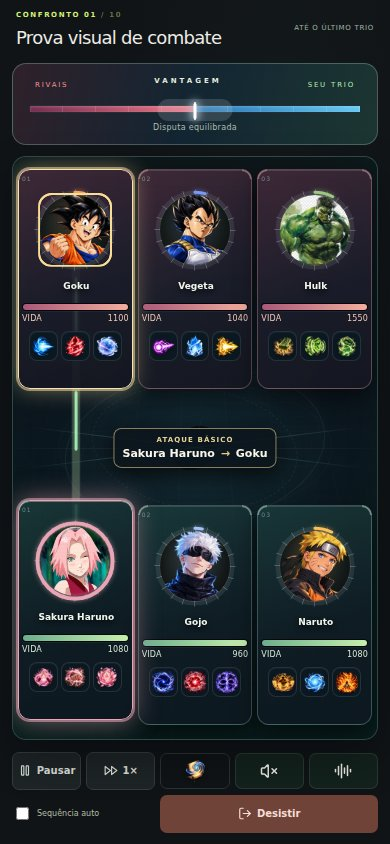
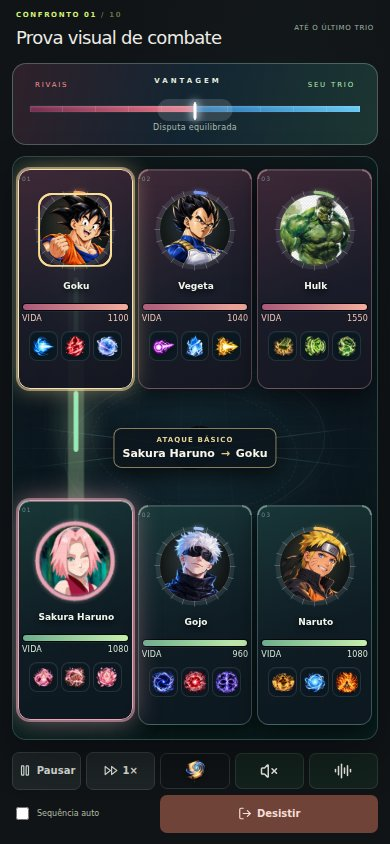
Strengthen combat travel and attacker movement

Changed region(s): [[0.1538, 0.4621, 0.2462, 0.5853]]

diff --git a/src/presentation/visual-game.css b/src/presentation/visual-game.css
@@ -23,7 +23,8 @@
 .battle-screen .link-target .target-brackets,.battle-screen .link-target .fighter-portrait:after{content:'';position:absolute;inset:4px;border:2px solid #f8dd96;border-radius:14px;clip-path:polygon(0 0,27% 0,27% 7%,7% 7%,7% 27%,0 27%,0 0,100% 0,100% 27%,93% 27%,93% 7%,73% 7%,73% 0,100% 0,100% 100%,73% 100%,73% 93%,93% 93%,93% 73%,100% 73%,100% 100%,0 100%,0 73%,7% 73%,7% 93%,27% 93%,27% 100%,0 100%)}
 .battle-screen .link-target.taking-hit .fighter-portrait{animation:portrait-hit calc(.35s * var(--motion-scale)) ease-out}
 .battle-screen .receiving-help.link-target{border-color:#a9f8c3!important;box-shadow:0 0 0 2px #99f2bf7a,0 0 26px #79d6b277}
-.battle-screen .acting.basic-physical .fighter-portrait,.battle-screen .acting.basic-slash .fighter-portrait{animation:basic-lunge calc(.8s * var(--motion-scale)) ease-out both}
+.battle-screen .player-team .acting.basic-physical .fighter-portrait,.battle-screen .player-team .acting.basic-slash .fighter-portrait{--lunge:-1;animation:basic-lunge calc(.85s * var(--motion-scale)) cubic-bezier(.2,.75,.2,1) both}
+.battle-screen .enemy-team .acting.basic-physical .fighter-portrait,.battle-screen .enemy-team .acting.basic-slash .fighter-portrait{--lunge:1;animation:basic-lunge calc(.85s * var(--motion-scale)) cubic-bezier(.2,.75,.2,1) both}
 .battle-screen .acting.basic-slash .portrait-halo{background:conic-gradient(from 20deg,transparent 0 35%,#f1e6d999 40% 46%,transparent 50%)}
 .battle-screen .cast-broken .preparation-ring{animation:cast-shatter .4s ease-out both;stroke:#ff9c87}
 .battle-screen .cast-broken .cast-label{color:#ffb4a2}
@@ -37,10 +38,10 @@
 .path-shield{--path-color:#91e9f1}
 .path-debuff,.path-interrupt{--path-color:#e9a5d5}
 .combat-path-halo,.combat-path-stroke{fill:none;vector-effect:non-scaling-stroke;stroke-linecap:round;stroke-linejoin:round}
-.combat-path-halo{stroke:var(--path-color);stroke-width:8;opacity:.14}
-.combat-path-stroke{stroke:var(--path-color);stroke-width:2.6;stroke-dasharray:4 2;opacity:.9}
+.combat-path-halo{stroke:var(--path-color);stroke-width:16;opacity:.22}
+.combat-path-stroke{stroke:var(--path-color);stroke-width:4;stroke-dasharray:4 2;opacity:1;filter:drop-shadow(0 0 4px var(--path-color))}
 .combat-target-node{fill:var(--path-color);opacity:.92;stroke:#fff9;stroke-width:.5}
-.combat-tracer{fill:#fff;stroke:var(--path-color);stroke-width:1;filter:drop-shadow(0 0 3px var(--path-color))}
+.combat-tracer{fill:#fff;stroke:var(--path-color);stroke-width:1.5;filter:drop-shadow(0 0 7px var(--path-color))}
 .combat-connections.winding .combat-path-stroke{stroke-dasharray:100;stroke-dashoffset:100;animation:draw-link var(--link-time) ease-in-out forwards}
 .combat-connections.winding .combat-path-halo{animation:link-fade var(--link-time) ease-in both}
 .combat-connections.landed .combat-path{opacity:.5}
@@ -82,7 +83,7 @@
 @keyframes link-fade{0%{opacity:0}35%{opacity:.23}100%{opacity:.13}}
 @keyframes target-pop{0%{opacity:.2;r:1}50%{opacity:1;r:3}100%{opacity:.8;r:2.1}}
 @keyframes source-aura{to{opacity:.4;transform:scale(1.1)}}
-@keyframes basic-lunge{0%{transform:translateY(0)}32%{transform:translateY(7px) scale(1.12)}62%{transform:translateY(-2px) scale(1.04)}100%{transform:translateY(0)}}
+@keyframes basic-lunge{0%{transform:translateY(0) scale(1)}18%{transform:translateY(calc(8px * var(--lunge))) scale(1.04)}48%{transform:translateY(calc(28px * var(--lunge))) scale(1.13)}72%{transform:translateY(calc(11px * var(--lunge))) scale(1.06)}100%{transform:translateY(0) scale(1)}}
 @keyframes cast-shatter{to{opacity:0;transform:rotate(-90deg) scale(1.35)}}
 @keyframes unit-out{30%{transform:scale(1.06)}100%{transform:scale(1)}}
 @keyframes feedback-rise{0%{opacity:.5;translate:0 10px;scale:.8}10%{opacity:1;translate:0 0;scale:1.08}80%{opacity:1;translate:0 -11px;scale:1}100%{opacity:0;translate:0 -23px;scale:.94}}

diff --git a/src/components/CombatConnections.tsx b/src/components/CombatConnections.tsx
@@ -21,7 +21,7 @@ export function CombatConnections({battle,beat,anchors,reduced}:{battle:Battle;b
       {links.map(link=>{const a=point(link.source),b=point(link.target),midX=(a.x+b.x)/2,midY=(a.y+b.y)/2+(a.y>b.y?-4:4),path=`M ${a.x} ${a.y} Q ${midX} ${midY} ${b.x} ${b.y}`;
         return <g key={link.id} className={`combat-path path-${link.kind}`} data-link={`${link.source}:${link.target}:${link.kind}`}>
           <path d={path} pathLength="100" className="combat-path-halo"/><path d={path} pathLength="100" className="combat-path-stroke"/>
-          {!reduced&&active&&<circle r="1.25" className="combat-tracer"><animateMotion dur={`${Math.max(.15,beat.duration*.48)}s`} path={path} fill="freeze"/></circle>}
+          {!reduced&&active&&<circle r="2.2" className="combat-tracer"><animateMotion dur={`${Math.max(.15,beat.duration*.48)}s`} path={path} fill="freeze"/></circle>}
           <circle cx={b.x} cy={b.y} r="2.1" className="combat-target-node"/>
         </g>;
       })}
